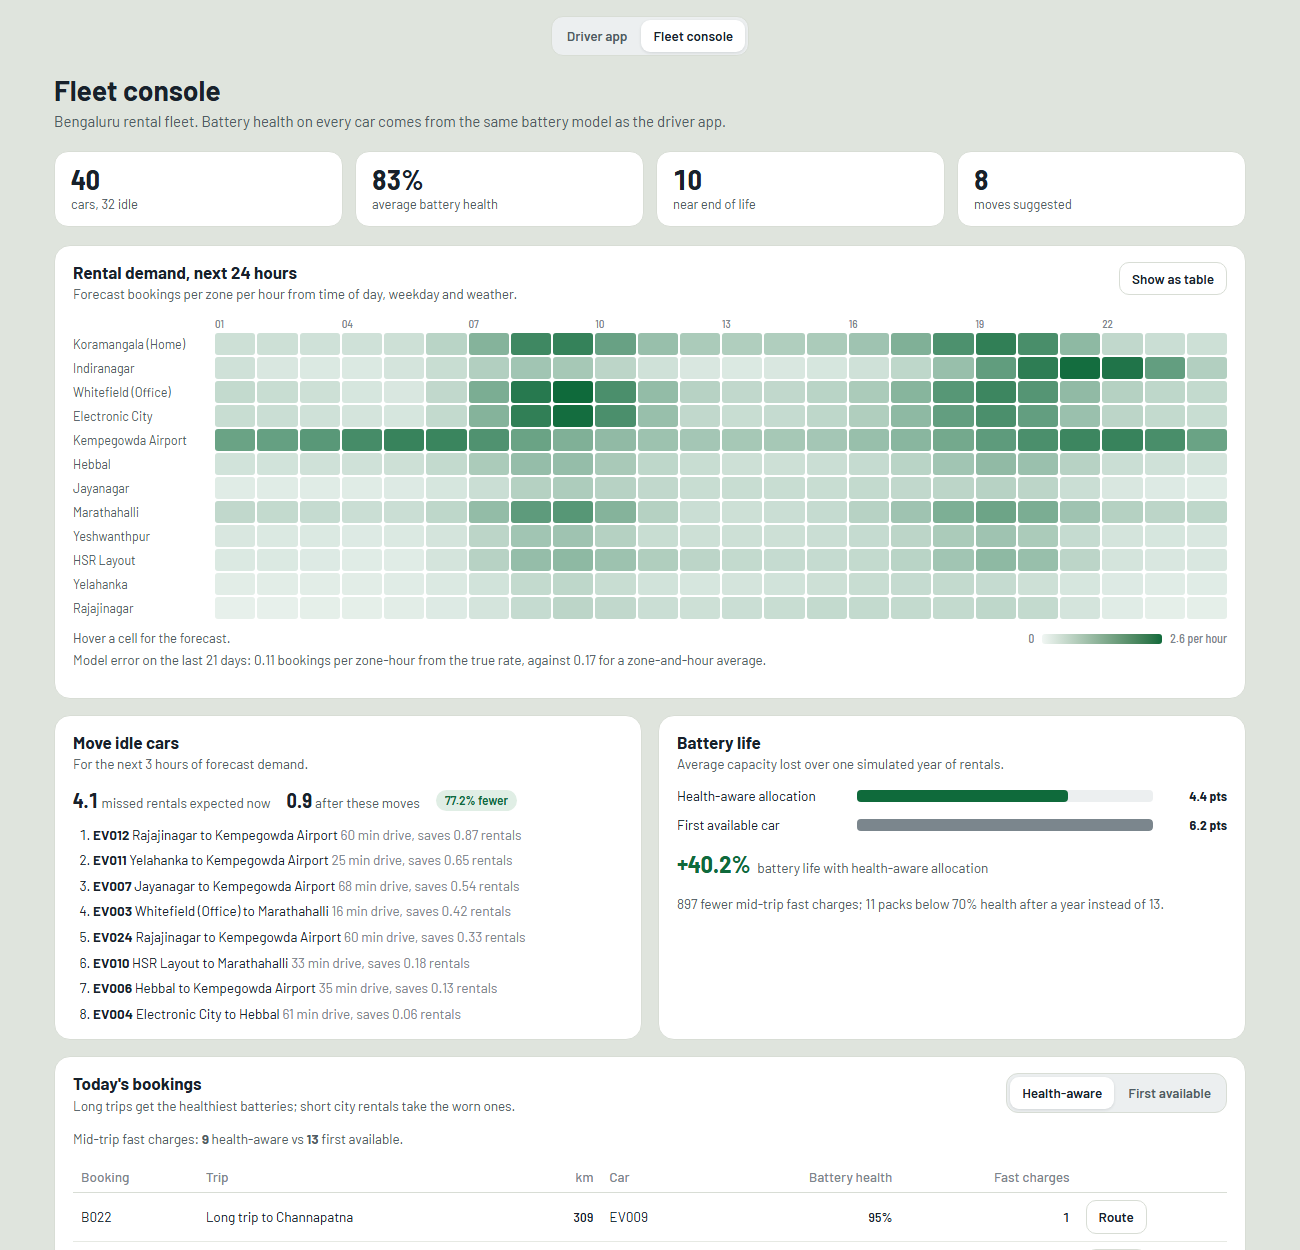
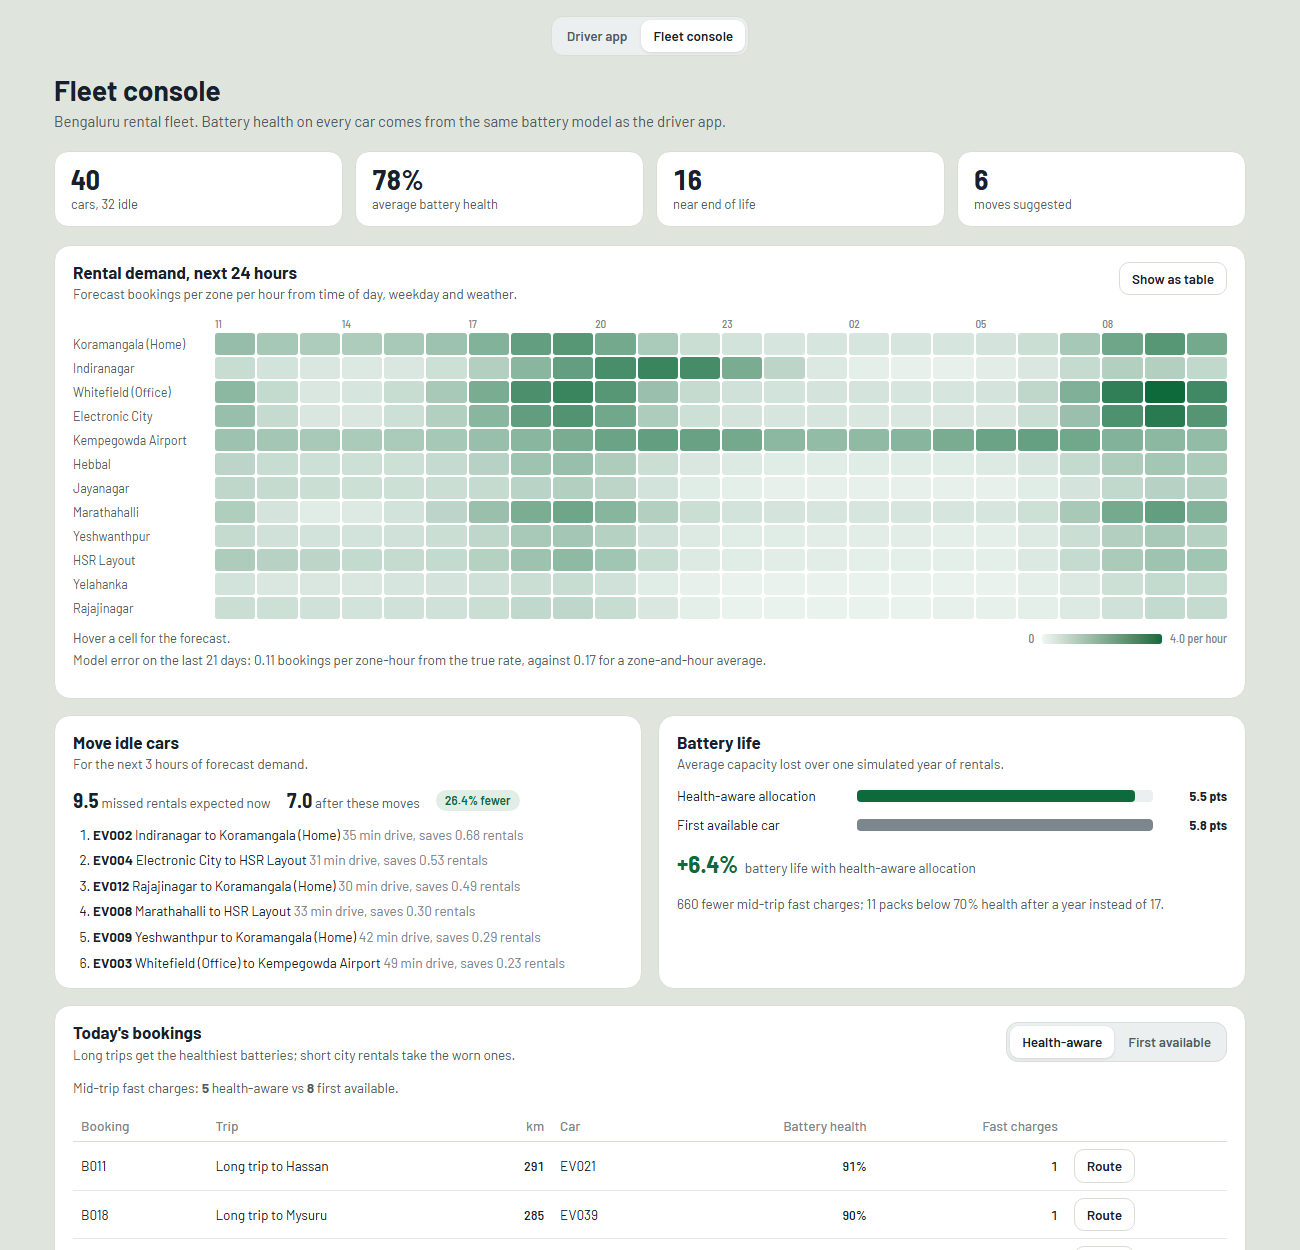
Project page and screenshots: real-battery results, phone app, fleet console
Hero exchange, app section (five screens incl. fleet console), capabilities,
core section and limitations now match results/metrics.md: SOH model trained
on real NASA cells (4.8 pts on 7 unseen cells), 0% vs 23% stranded, 17/17
assistant tasks, fleet 11 vs 17 cars below 70%.

diff --git a/docs/index.html b/docs/index.html
@@ -103,8 +103,9 @@ footer { padding: 40px 0 56px; color: var(--ink-3); font-size: 14.5px; }
     <h1>An EV voice assistant that checks the battery before it says yes</h1>
     <p class="lede">
       Most in-car assistants turn speech into commands. Volt routes every navigation, charging and climate request
-      through a battery-intelligence core first: trained models for battery health and personalized range, plus a
-      guard that blocks anything the car can't safely do.
+      through one shared battery-intelligence core first: a battery-health model trained on real NASA battery data,
+      a personalised range model, and a guard that blocks anything the car can't safely do. The same core drives
+      the companion app, the charging-aware route planner and a rental-fleet console.
     </p>
     <div class="actions">
       <a class="btn primary" href="https://github.com/ProblematicPP/ev-voice-assistant">View the code on GitHub</a>
@@ -114,17 +115,18 @@ footer { padding: 40px 0 56px; color: var(--ink-3); font-size: 14.5px; }
     <div class="exchange" aria-label="Example conversation">
       <div>
         <div class="bubble user">Will I make it to Mysore without stopping?</div>
-        <div class="bubble bot">No. Mysuru is 148 km away and at today's consumption you'd run out about 48 km short. One 18-minute stop at Magenta ChargeGrid fixes it. Want me to start that route?</div>
+        <div class="bubble bot">No, you'd run out about 66 km short of Mysuru. A 32-minute stop at Magenta ChargeGrid fixes it. Want me to start that route?</div>
         <div class="bubble user">Yes</div>
-        <div class="bubble bot">Routing to Mysuru with a charging stop at Magenta ChargeGrid (arrive 44%, charge to 80%). Total 2 h 47 min, arriving with 14%.</div>
-        <div class="bubble nudge"><b>Volt noticed:</b> at 40 °C with AC on, you'd reach Mysuru at 7%, below the safe reserve. Re-plan with a charging stop?</div>
+        <div class="bubble bot">Route set to Mysuru via Magenta ChargeGrid. You'll charge from 44% to 97% in 32 minutes and arrive at 15% after 3 hours 9 minutes. Charging costs ₹386.</div>
+        <div class="bubble nudge"><b>Volt noticed:</b> at 44 °C with AC on, you'd reach Mysuru at 7%, below the safe reserve. Re-plan with a charging stop?</div>
       </div>
       <div class="trace">
         <p style="margin-top:0"><b>What happened behind that first answer</b></p>
         <ol>
           <li>Speech transcribed locally by <b>Whisper</b>.</li>
           <li>A local LLM (<b>Qwen 3.5 4B via Ollama</b>) picks the tool <code>check_range_to("Mysore")</code>. It never invents numbers.</li>
-          <li>The <b>range model</b> predicts Wh/km for every road segment under today's heat, AC, driving style and battery age.</li>
+          <li>The <b>battery-health model</b> (trained on real NASA cells) reads the car's battery log: 77% health.</li>
+          <li>The <b>range model</b> predicts Wh/km for every road segment under today's heat, AC, driving style and that battery health.</li>
           <li>The <span class="guard">battery guard</span> compares predicted arrival charge with a 10% reserve: fail.</li>
           <li>The <b>planner</b> searches real OpenStreetMap roads and chargers and picks the fastest plan that keeps every leg above the floor.</li>
           <li>The LLM phrases the reply using only those facts; <b>Piper</b> speaks it.</li>
@@ -137,26 +139,32 @@ footer { padding: 40px 0 56px; color: var(--ink-3); font-size: 14.5px; }
 <section>
   <div class="wrap">
     <h2>The app</h2>
-    <p>The assistant chat sits on the left. The right side keeps the live range always visible and splits
-      everything else into four tabs: Trip, Battery, Ownership and Simulator.</p>
+    <p>The companion app is a phone app: Home, Trip, Volt (chat and voice), Battery and Ownership. Demo controls sit
+      in a simulator panel beside the phone, outside the app. A switch at the top opens the fleet console for a
+      rental operator.</p>
     <div class="shots">
       <figure>
-        <img src="images/trip.png" width="1440" height="1300" loading="lazy"
-          alt="Trip tab showing a Bengaluru to Mysuru route on real OpenStreetMap roads, with a charging stop at Magenta ChargeGrid and a stop-by-stop itinerary" />
-        <figcaption>Trip: the route follows real roads from OpenStreetMap; the charging stop was chosen automatically.</figcaption>
+        <img src="images/trip.png" width="1200" height="1000" loading="lazy"
+          alt="Trip screen: a Bengaluru to Mysuru route on real OpenStreetMap roads, a charging stop at Magenta ChargeGrid, trip totals and a range ribbon comparing 79 km personal range with a 144 km brochure estimate" />
+        <figcaption>Trip: real roads, an automatically chosen charging stop, and the range ribbon (79 km for today against a 144 km brochure figure).</figcaption>
       </figure>
       <div class="pair">
         <figure>
-          <img src="images/battery.png" width="1440" height="1000" loading="lazy"
-            alt="Battery tab with state-of-health trend, a breakdown of why range is lower than expected, and charging history" />
-          <figcaption>Battery: health trend, range-drop explanation, charging history.</figcaption>
+          <img src="images/battery.png" width="1200" height="1000" loading="lazy"
+            alt="Battery screen: 77% health estimated from a real NASA battery log, about 2.2 years to 70%, and a breakdown of why range is 79 km instead of 178 km" />
+          <figcaption>Battery: health read from a real battery log (77%; the lab measured 87.5%), remaining life, and why range is low.</figcaption>
         </figure>
         <figure>
-          <img src="images/ownership.png" width="1440" height="1000" loading="lazy"
-            alt="Ownership tab with charging-habit coaching, running cost per km and a resale projection" />
-          <figcaption>Ownership: charging coach, cost per km, resale projection.</figcaption>
+          <img src="images/ownership.png" width="1200" height="1000" loading="lazy"
+            alt="Ownership screen: cost per km against petrol, eco-driving and charging coaching, resale value and a two-year projection by charging habit" />
+          <figcaption>Ownership: cost against petrol, driving and charging coach, resale and a 2-year projection.</figcaption>
         </figure>
       </div>
+      <figure>
+        <img src="images/fleet.png" width="1300" height="1250" loading="lazy"
+          alt="Fleet console: rental demand heatmap by zone and hour, suggested car moves, battery-life comparison of allocation policies, and today's bookings" />
+        <figcaption>Fleet console: demand forecast, suggested car moves, and battery-aware allocation (healthiest batteries on the longest trips).</figcaption>
+      </figure>
     </div>
   </div>
 </section>
@@ -189,7 +197,7 @@ footer { padding: 40px 0 56px; color: var(--ink-3); font-size: 14.5px; }
 
           <rect x="460" y="40" width="120" height="56" rx="10" fill="var(--panel-2)" stroke="var(--line)" />
           <text x="520" y="64" text-anchor="middle" font-weight="600">Router</text>
-          <text x="520" y="82" text-anchor="middle" font-size="12" fill="var(--ink-2)">14 tools</text>
+          <text x="520" y="82" text-anchor="middle" font-size="12" fill="var(--ink-2)">16 tools</text>
 
           <rect x="610" y="30" width="150" height="76" rx="10" fill="var(--charge-soft)" stroke="var(--charge)" stroke-width="2" />
           <text x="685" y="62" text-anchor="middle" font-weight="700" fill="var(--charge)">Battery guard</text>
@@ -201,13 +209,13 @@ footer { padding: 40px 0 56px; color: var(--ink-3); font-size: 14.5px; }
 
           <rect x="470" y="160" width="140" height="56" rx="10" fill="var(--accent-soft)" stroke="var(--accent)" />
           <text x="540" y="184" text-anchor="middle" font-weight="600">Battery core</text>
-          <text x="540" y="202" text-anchor="middle" font-size="12" fill="var(--ink-2)">SOH + range (PyTorch)</text>
+          <text x="540" y="202" text-anchor="middle" font-size="12" fill="var(--ink-2)">health, range, RUL</text>
           <rect x="630" y="160" width="120" height="56" rx="10" fill="var(--accent-soft)" stroke="var(--accent)" />
           <text x="690" y="184" text-anchor="middle" font-weight="600">Route planner</text>
           <text x="690" y="202" text-anchor="middle" font-size="12" fill="var(--ink-2)">charger search</text>
           <rect x="770" y="160" width="130" height="56" rx="10" fill="var(--accent-soft)" stroke="var(--accent)" />
-          <text x="835" y="184" text-anchor="middle" font-weight="600">Companion app</text>
-          <text x="835" y="202" text-anchor="middle" font-size="12" fill="var(--ink-2)">coach, cost, resale</text>
+          <text x="835" y="184" text-anchor="middle" font-weight="600">Companion + fleet</text>
+          <text x="835" y="202" text-anchor="middle" font-size="12" fill="var(--ink-2)">coach, resale, fleet</text>
         </g>
         <g stroke="var(--ink-3)" stroke-width="1.6" fill="none" marker-end="url(#arr)">
           <path d="M120 68 H148" /><path d="M270 68 H298" /><path d="M430 68 H458" />
@@ -232,7 +240,9 @@ footer { padding: 40px 0 56px; color: var(--ink-3); font-size: 14.5px; }
       <div class="card"><h3>Mid-drive re-planning</h3><p>Add a detour while driving; the stop that minimises the detour is chosen and charging is re-planned from where the car is.</p><p class="ex">"Also stop at a McDonald's on the way"</p></div>
       <div class="card"><h3>Proactive nudges</h3><p>Unprompted alerts with one-tap answers when the state changes.</p><p class="ex">"18% left, 55 km from home. Route via a charger?"</p></div>
       <div class="card"><h3>Range-drop explanation</h3><p>Exact Shapley values over weather, AC, driving style, load and battery ageing, in kilometres.</p><p class="ex">"Why is my range lower than usual?"</p></div>
-      <div class="card"><h3>Companion app</h3><p>Personalized SOH and range, charging-habit coaching, cost per km against petrol, and an SOH-driven resale estimate with a two-year habit projection.</p></div>
+      <div class="card"><h3>Eco-driving coaching</h3><p>Harsh braking and acceleration detected from a simulated OBD-II/CAN stream, with the range you'd gain by driving smoothly.</p><p class="ex">"Am I braking too hard?"</p></div>
+      <div class="card"><h3>Companion app</h3><p>Battery health and personal range, charging-habit coaching, cost per km against petrol, and an SOH-driven resale estimate with a two-year habit projection.</p></div>
+      <div class="card"><h3>Fleet console</h3><p>Demand forecast by zone, hour and weather, suggested car moves, and battery-aware allocation: healthy batteries take long trips, worn ones short city rentals.</p><p class="ex">"Which fleet cars should I move?"</p></div>
       <div class="card"><h3>Assisted driving and pre-cooling <span class="stub-tag">stubs</span></h3><p>They log what they would do (show the left turn camera, pre-cool on plug power) without touching hardware. Pre-cooling is still guard-checked.</p></div>
     </div>
   </div>
@@ -241,24 +251,30 @@ footer { padding: 40px 0 56px; color: var(--ink-3); font-size: 14.5px; }
 <section>
   <div class="wrap">
     <h2>The battery-intelligence core</h2>
-    <p>No real EV telemetry was available, so all training data is synthetic, generated to resemble public datasets
-      (NASA PCoE and CALCE ageing curves) and plausible vehicle physics. Both models are small PyTorch MLPs.</p>
+    <p>One core, used by the assistant, the app, the planner and the fleet. The battery-health model is trained on
+      <b>real</b> batteries: NASA Ames' public Li-ion ageing dataset (34 cells). Seven cells are held out and never
+      trained on. The demo car and the fleet replay those unseen cells' battery logs, so every health figure in the
+      app is a genuine prediction on real data.</p>
     <div class="stats">
-      <div class="stat"><strong class="num">0.55%</strong><span>SOH mean absolute error on battery cells held out from training</span></div>
-      <div class="stat"><strong class="num">4.2%</strong><span>Wh/km error for the range model, about the noise level built into the data</span></div>
-      <div class="stat"><strong class="num">32</strong><span>model evaluations per range explanation (exact Shapley over 5 factors)</span></div>
-      <div class="stat"><strong class="num">49,435 km</strong><span>of real Karnataka roads from OpenStreetMap, routed offline</span></div>
+      <div class="stat"><strong class="num">4.8 pts</strong><span>battery-health error (MAE) on 7 real cells the model never saw</span></div>
+      <div class="stat"><strong class="num">0% vs 23%</strong><span>trips stranded: battery-aware planner vs a router trusting the brochure range (108 trips)</span></div>
+      <div class="stat"><strong class="num">17 / 17</strong><span>assistant tasks right with the local LLM (3.5 s median reply) and with the rule-based backup</span></div>
+      <div class="stat"><strong class="num">11 vs 17</strong><span>fleet cars below 70% health after a simulated year: health-aware vs first-available allocation</span></div>
     </div>
     <div class="tablewrap">
     <table>
-      <thead><tr><th>Model</th><th>Inputs</th><th>Output</th><th>Used by</th></tr></thead>
+      <thead><tr><th>Model</th><th>Inputs</th><th>Output</th><th>Trained on</th><th>Held-out result</th></tr></thead>
       <tbody>
-        <tr><td>State of health</td><td>Cycle count, temperature, charge C-rate, fast-charge ratio, depth of discharge, internal resistance, voltage and temperature features</td><td>SOH (capacity vs new)</td><td>Usable kWh, resale value, dashboard</td></tr>
-        <tr><td>Energy consumption</td><td>Temperature, HVAC mode, driving style, speed, gradient, load, road type, SOH</td><td>Wh per km</td><td>Personalized range, per-edge route energy, attribution</td></tr>
+        <tr><td>Battery health (SOH)</td><td>10 battery-system signals per cycle; resistance, voltage and temperature as change since the battery was new</td><td>SOH (capacity vs rated)</td><td>Real NASA cells</td><td>4.8 points MAE on 7 unseen real cells. The same network trained on synthetic cells is 18.6–25.8 points off on real ones, so the app ships the real-trained model.</td></tr>
+        <tr><td>Energy use</td><td>Temperature, AC/heater, driving style, speed, load, road type, battery health</td><td>Wh per km</td><td>Synthetic fleet trips, fine-tuned on the owner's own trips</td><td>4.2% MAPE; personalising cuts error on the owner's trips from 10.5 to 9.1 Wh/km</td></tr>
+        <tr><td>Rental demand</td><td>Zone, hour, weekday, temperature, rain</td><td>Bookings per zone-hour</td><td>Synthetic fleet history</td><td>33% closer to the true booking rate than a zone-and-hour average</td></tr>
       </tbody>
     </table>
     </div>
-    <p style="margin-top:14px">Predicting Wh/km rather than range directly is what makes range personalized: at 34 °C the same 46% charge is about 125 km with the AC off and 88 km with it on, and the model can say exactly how much each factor costs.</p>
+    <p style="margin-top:14px">Range explanations use exact Shapley values over AC, battery ageing, driving style, temperature
+      and load. Remaining life and the two-year projection come from a semi-empirical ageing formula; that part is not learned.
+      Every number above is regenerated by <code>python -m eval.run_all</code>; see
+      <a href="https://github.com/ProblematicPP/ev-voice-assistant/blob/main/results/metrics.md">results/metrics.md</a>.</p>
   </div>
 </section>
 
@@ -273,6 +289,7 @@ uv pip install --python .venv\Scripts\python.exe torch --index-url https://downl
 .venv\Scripts\python.exe -m data_gen.generate_all
 .venv\Scripts\python.exe -m training.train_soh
 .venv\Scripts\python.exe -m training.train_range
+.venv\Scripts\python.exe -m training.train_demand
 ollama pull qwen3.5:4b
 .venv\Scripts\python.exe -m uvicorn app.main:app --port 8000
 
@@ -286,11 +303,12 @@ npm run dev        # open http://localhost:5173</code></pre>
   <div class="wrap">
     <h2>Limitations</h2>
     <ul class="limits">
-      <li>All battery, trip and charging data is synthetic; model accuracy figures describe fit to that data, not real vehicles.</li>
-      <li>Roads, places and charger locations are real OpenStreetMap data for Karnataka, but OSM maps only 37 car chargers and almost never their power or price, so those values are estimated. Long trips can fail on these mapping gaps.</li>
-      <li>Road speeds are estimated from road class and city traffic, and OSM has no elevation, so hills are ignored.</li>
-      <li>Assisted driving and pre-cooling are logging stubs for a future hardware phase.</li>
-      <li>Single vehicle, single owner. Fleet features are out of scope.</li>
+      <li>Battery-health data is real, but from small NASA lab cells that age about 6&times; faster per cycle than a car pack. A production model would need car-pack data. On the demo car's cell the model estimates 77% where the lab measured 87.5%.</li>
+      <li>Trips, owner history, fleet demand and the range model's training data are synthetic. The routing and fleet comparisons are simulations, not field trials.</li>
+      <li>Remaining life and the two-year projection use a hand-tuned ageing formula, not a fitted model.</li>
+      <li>Roads, places and charger locations are real OpenStreetMap data, but OSM maps few Karnataka chargers and rarely their power or price, so those are estimated. 56 labelled demo chargers fill the gaps.</li>
+      <li>Charging stops are chosen by graph search with learned energy costs, not reinforcement learning. Traffic and charger queues are simulated, and there is no elevation data.</li>
+      <li>OBD-II/CAN, assisted driving and pre-cooling are stubs for a future hardware phase.</li>
     </ul>
   </div>
 </section>
